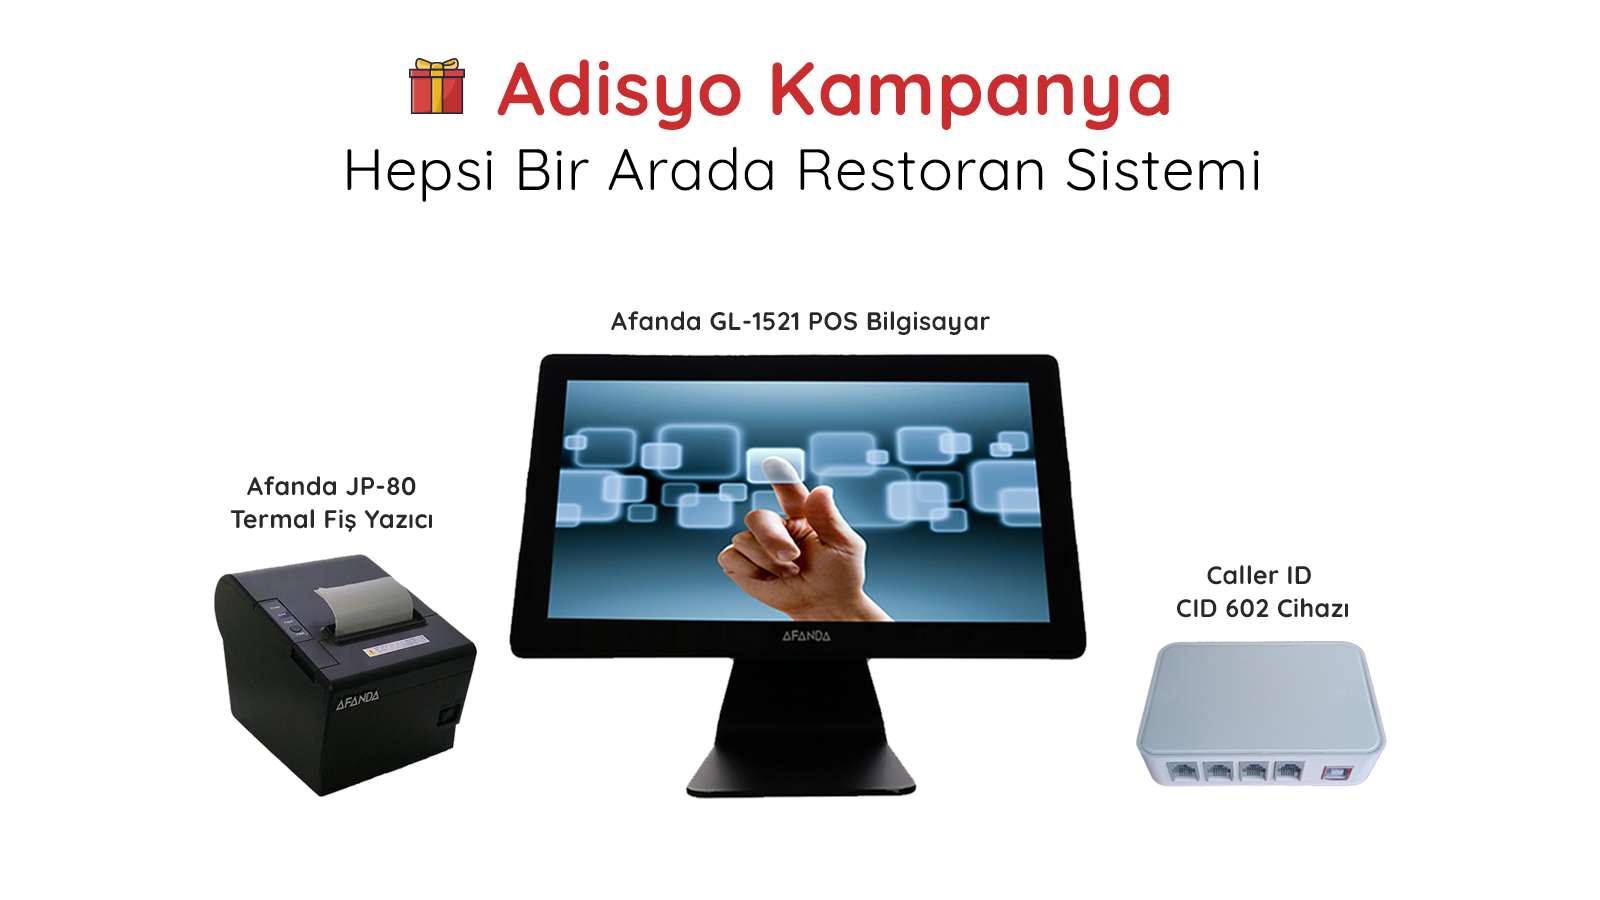
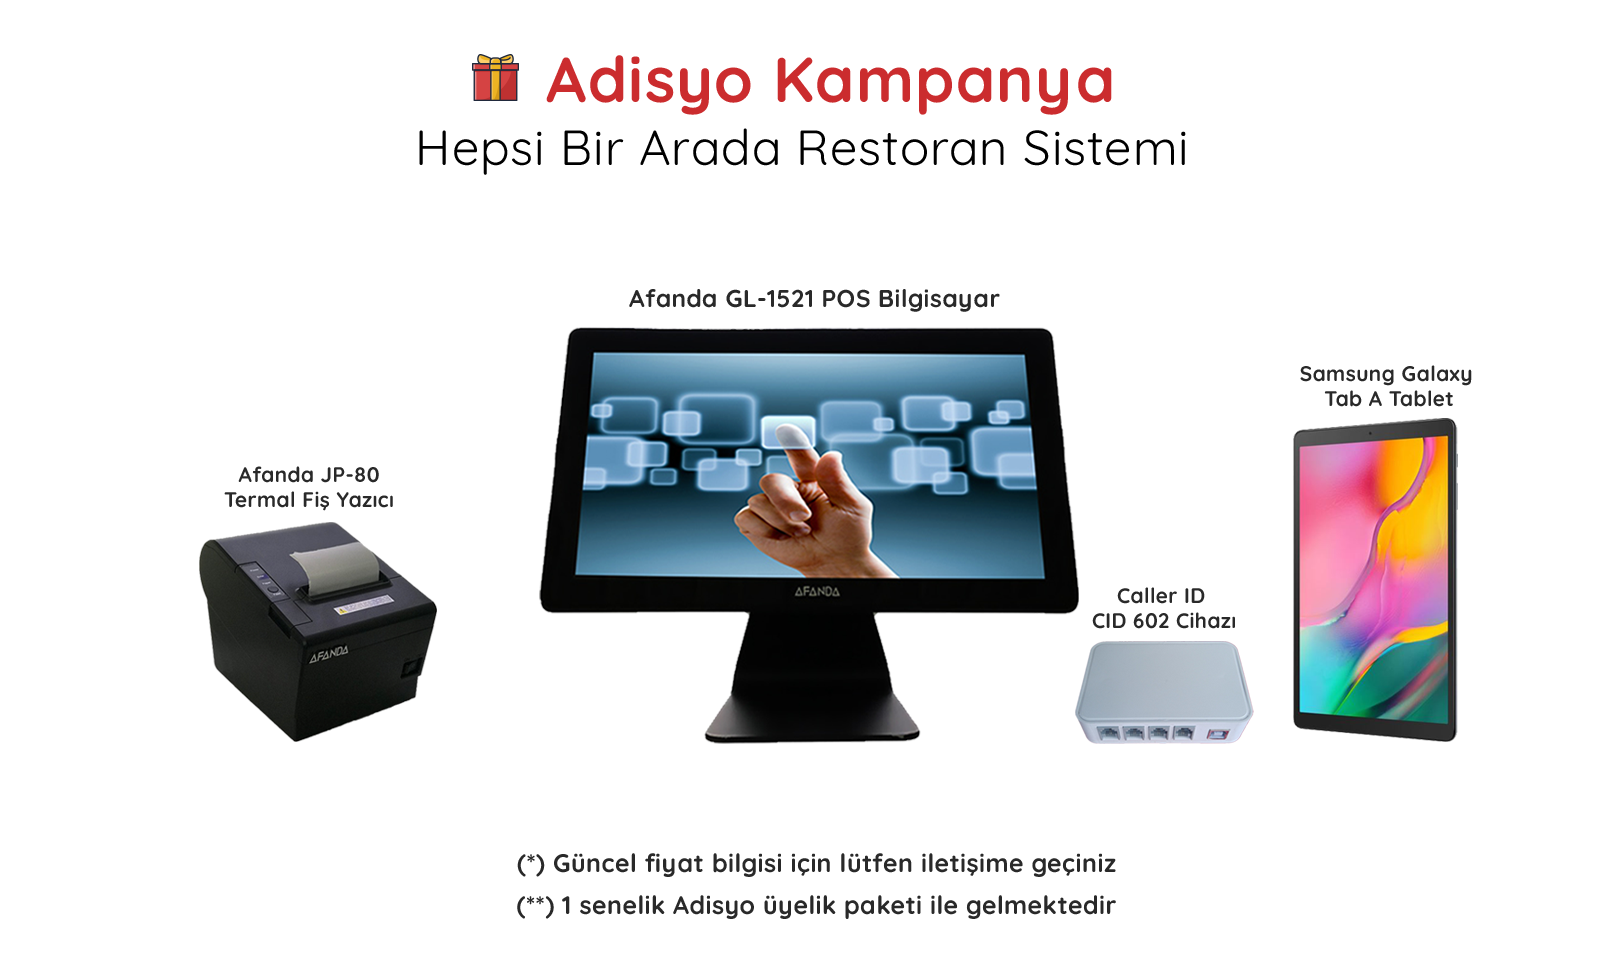
Campain page update

Changed region(s): [[0.125, 0.28, 0.9375, 0.9644], [0.2188, 0.0622, 0.7812, 0.2178]]

diff --git a/_layouts/campain-producs.html b/_layouts/campain-producs.html
@@ -11,7 +11,7 @@ layout: wrapper
     <div class="container">
     <div class="col-lg-12 col-sm-12 d-flex align-items-center">
         <div class="saas_service_img wow fadeInDown">
-            <img src="/assets/img/home/campains/campains2.png" alt="">
+            <img src="/assets/img/home/campains/campains3.png" alt="">
         </div>
     </div>
 </div>
@@ -60,7 +60,35 @@ layout: wrapper
          
         </div>
 
+
         <div class="row">
+            
+             <div class="col-sm-6 col-sm-push-6 d-flex align-items-center">
+                <div class="saas_service_content wow fadeInUp">
+                    <h4 class="f_600 f_size_24 f_p t_color"><b>Samsung Galaxy Tab A Tablet T290 8"</b></h4>
+                    <p class="f_p f_400">
+                       Tek elle kolayca taşınabilen ince ve kompakt tasarım ile performansın ideal bir karışımı olan Galaxy Tab A 8.0" ile beklediğinizden daha fazlasını sunan pratik bir yol arkadaşına kavuşun.
+                       Galaxy Tab A; 2GB RAM, 32GB depolama alanı ve en son Android 9+ işletim sistemine sahip. Özel bir SD kartı yuvası da tüm anılarınızı tek bir cihazda saklayabilmeniz için 512GB’a kadar depolama alanı sağlıyor.
+                    </p>
+                </div>
+            </div>
+
+                <div class="col-sm-6 col-sm-pull-6 d-flex align-items-center">
+                <div class="saas_service_img wow fadeInDown mt-minus40">
+                    <img src="/assets/img/home/campains/products4.png" alt="">
+                </div>
+            </div>
+
+            
+            </div>
+         
+        
+            <div class="row wrap-reserve">
+            <div class="col-lg-6 col-sm-6 d-flex align-items-center">
+                <div class="saas_service_img wow fadeInDown mt-minus40">
+                    <img src="/assets/img/home/campains/products3.png" alt="">
+                </div>
+            </div>
             <div class="col-lg-6 col-sm-6 d-flex align-items-center">   
                 <div class="saas_service_content wow fadeInUp">
                     <h4 class="f_600 f_size_24 f_p t_color"><b>Caller ID CID 602 Cihazı</b></h4>
@@ -68,11 +96,6 @@ layout: wrapper
                         Adisyo, ekranınızda işletmenizi arayan numaraların görünmesi, kolayca kayıt edilmesi ve hızlıca sipariş alınmasını sağlayan sistemdir.
                         Sipariş yönetiminizi verimli hale getirmek için Caller ID CID 602 ile tanışın.
                     </p>
-                </div>
-            </div>
-            <div class="col-lg-6 col-sm-6 d-flex align-items-center">
-                <div class="saas_service_img wow fadeInDown mt-minus40">
-                    <img src="/assets/img/home/campains/products3.png" alt="">
                 </div>
             </div>
 

diff --git a/assets/css/style.min.css b/assets/css/style.min.css
@@ -943,10 +943,10 @@ input:-internal-autofill-selected {
 
 .sec_pad {
     padding: 40px 0;
-    background-color: #f8f8f8!important
+    background-color: #f8f8f8!important;
 }
 .bg-yellow {
-    background-color: #f9ffb2 !important;
+    background-color: #fffad1 !important;
 }
 
 .f-right {

diff --git a/kampanyalar.md b/kampanyalar.md
@@ -1,0 +1,5 @@
+---
+layout: campain-producs
+title: Kampanyalar
+permalink: /kampanyalar/
+---
